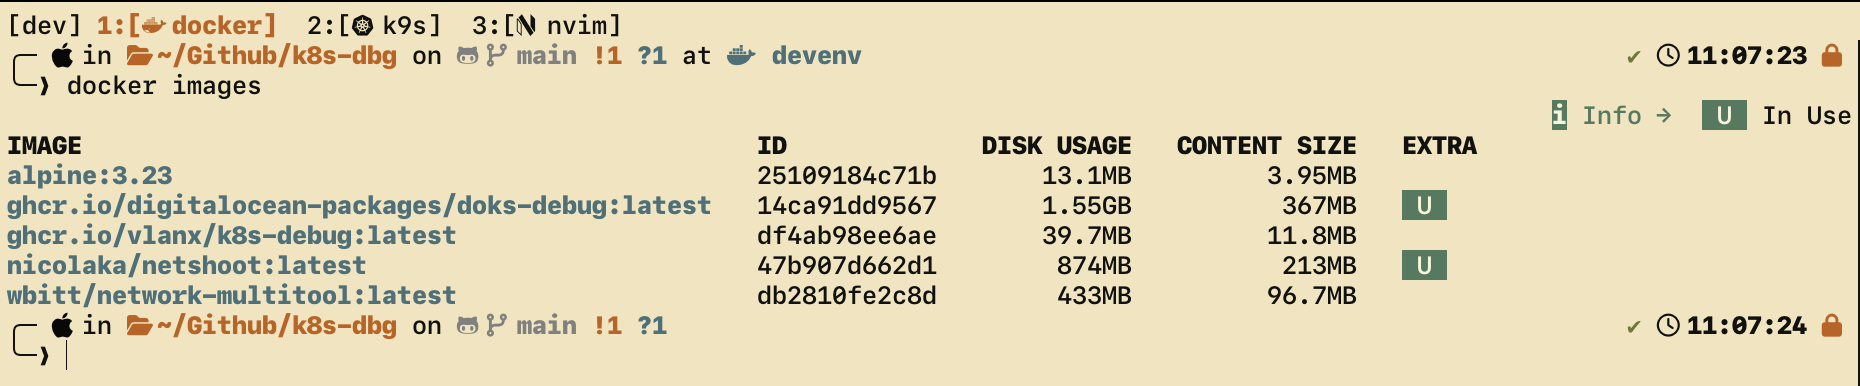
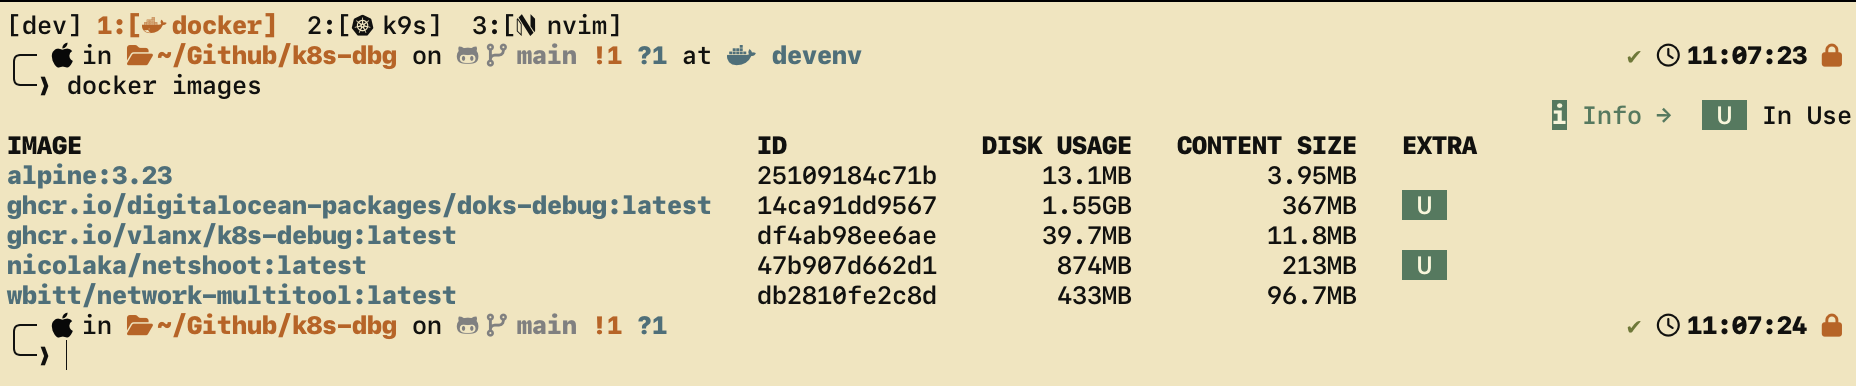
update

diff --git a/content/Posts/k8s-debug.md b/content/Posts/k8s-debug.md
@@ -2,8 +2,6 @@
 title: Are there no minimal Kubernetes debug pods?
 ---
 
-# Are there no minimal Kubernetes debug pods?
-
 Or am I just not looking in the right places? Anyway I've created my own.
 
 Obviously I stumbled into [netshoot](https://github.com/nicolaka/netshoot), [network-multitool](https://github.com/Praqma/Network-MultiTool)(Outdated!) which now is from [WBITT](https://github.com/wbitt/Network-MultiTool) and also [doks-debug](https://github.com/digitalocean/doks-debug) from Digital Ocean.
@@ -15,7 +13,7 @@ But just look at the **size** of those things. I mean, network is fast and all b
 
 Plus, it created an opportunity for me to build one tailored to my needs and made me mess around with **scheduled Github Actions Workflows**, which I didn't even knew existed.
 
-The Github Actions workflow right now uses **cron** to rebuild the image once per week, on every sunday. It also **rebuilds on commits** and via **dispatcher**. It really could not be simpler. The Dockerfile has the correct labels so it pins to the repo automatically and it tags it latest too.
+The Github Actions workflow right now uses **cron** to rebuild the image once per week, on **every sunday**. It also **rebuilds on commits** and via **dispatcher**. It really could not be simpler. The Dockerfile has the necessary labels to pin it to the repo automatically and it tags it with `latest` too.
 
 Since my goal was to have this container be a **drop-in tool to enter a kubernetes cluster** and look around and debug as if I was another pod, I had to make this workflow and troubleshooting sessions more **ergonomic**.
 
